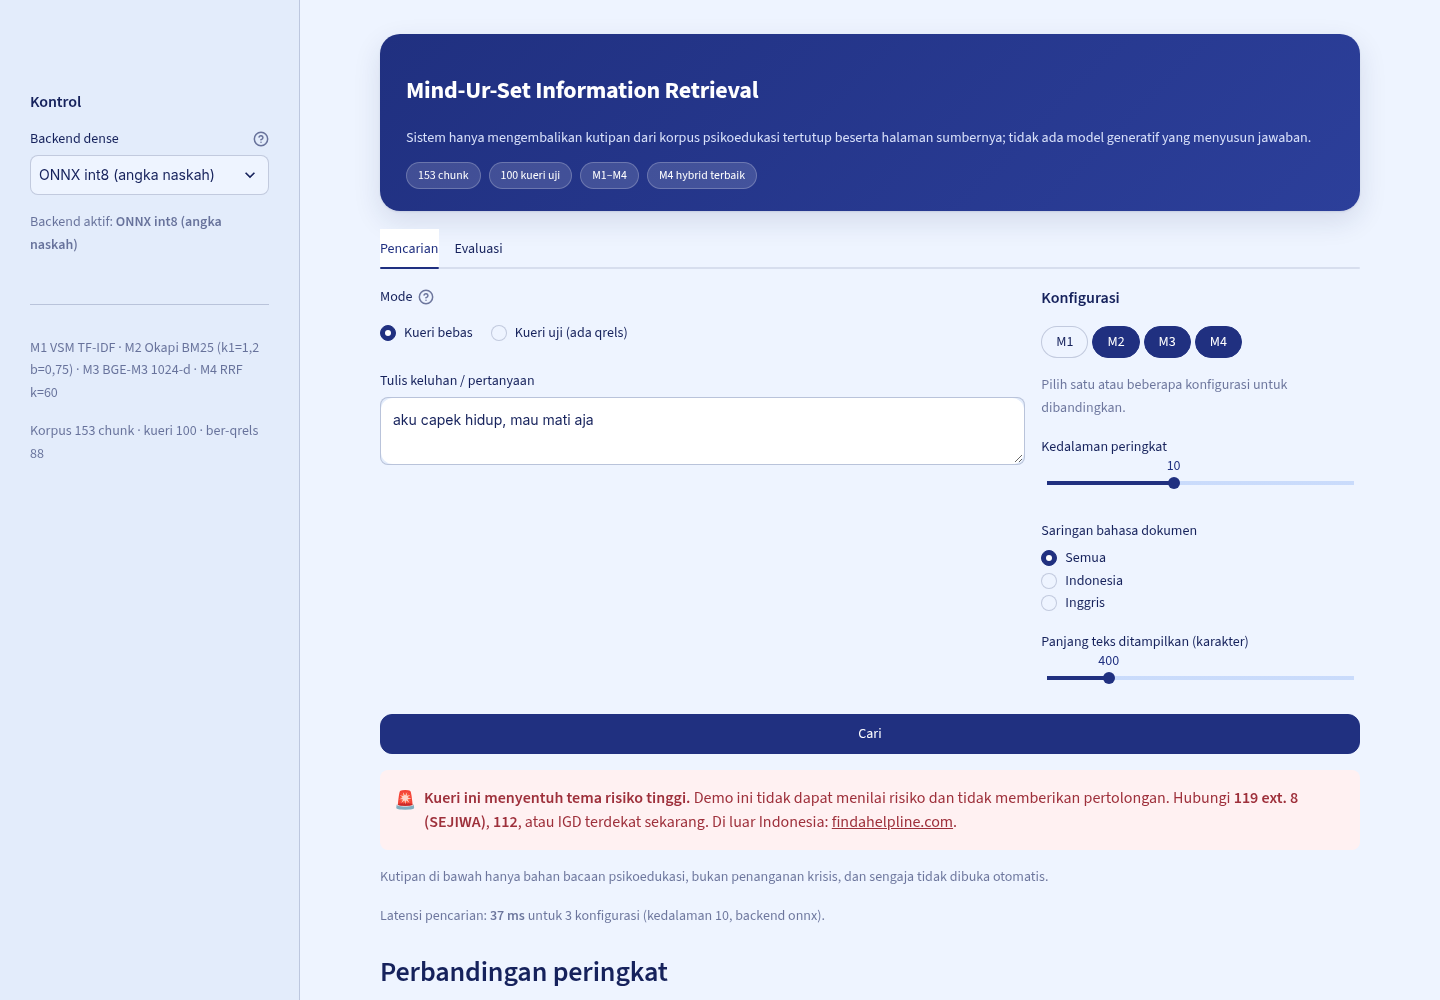
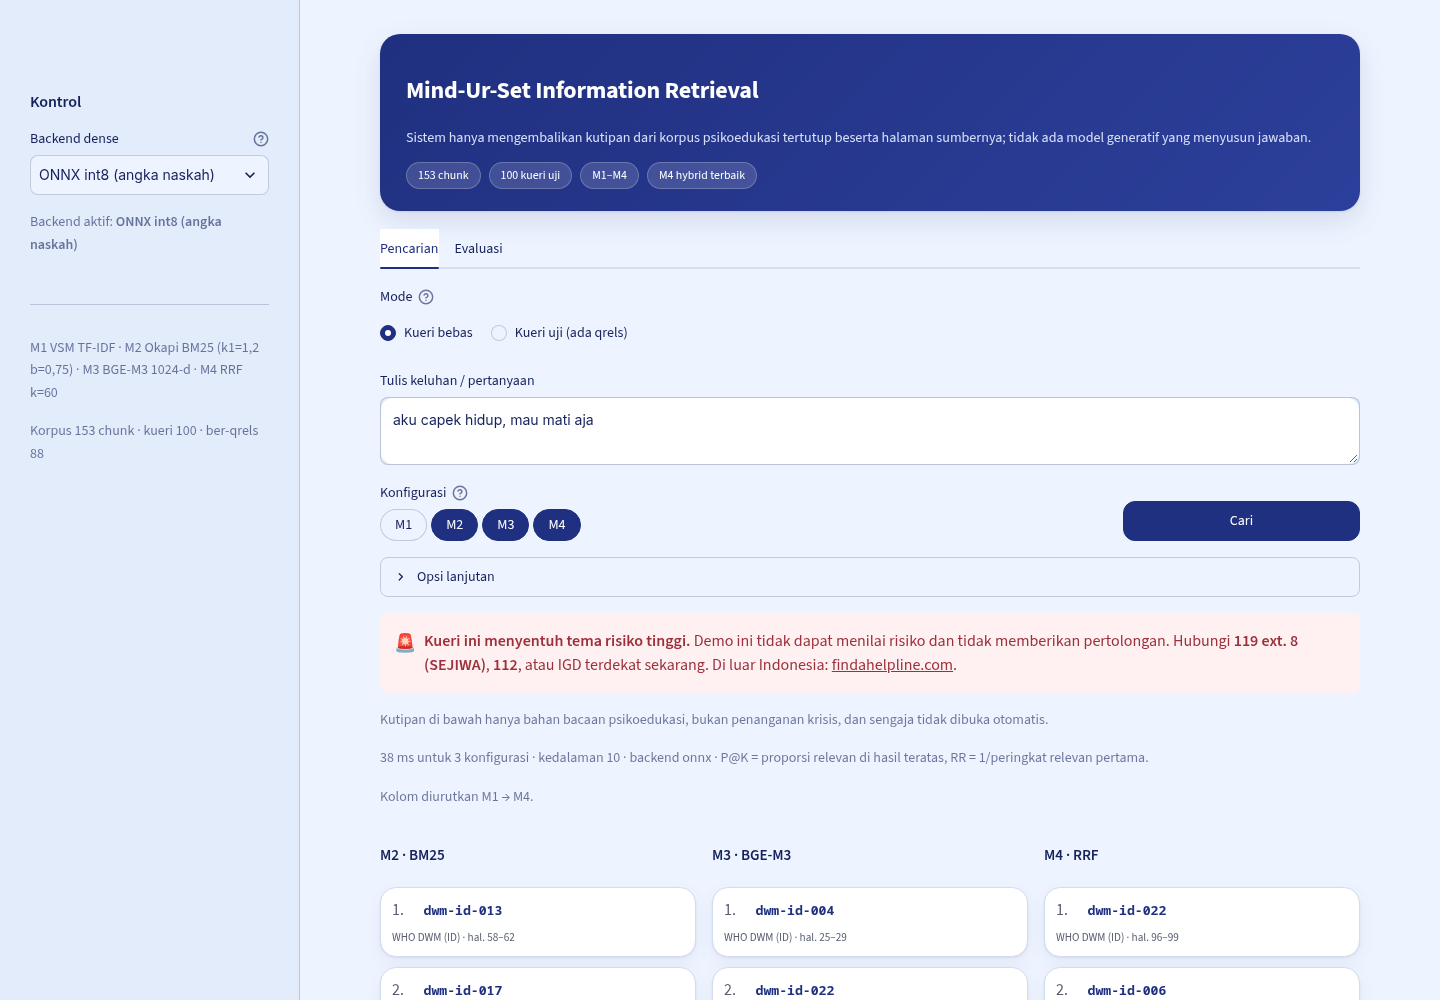
feat: compact search form and put results side by side

diff --git a/app.py b/app.py
@@ -29,6 +29,7 @@ ROOT = pathlib.Path(__file__).resolve().parent
 DATA = ROOT / "data"
 EMB = DATA / "embedding" / "emb_chunk_cls.npy"
 PAPER = {"M1": 0.390, "M2": 0.397, "M3": 0.420, "M4": 0.500}
+RINGKAS = {"M1": "VSM", "M2": "BM25", "M3": "BGE-M3", "M4": "RRF"}
 MAKS_KARAKTER = 500
 
 NAMA_SUMBER = {
@@ -249,47 +250,49 @@ with tab_cari:
     fungsi = pencari(backend)
     tersedia_nama = list(fungsi)
 
-    kol_kiri, kol_kanan = st.columns([2, 1])
-    with kol_kiri:
-        mode = st.radio(
-            "Mode",
-            ["Kueri bebas", "Kueri uji (ada qrels)"],
-            horizontal=True,
-            help="Kueri uji punya kunci relevansi, jadi ketepatan bisa dihitung.",
+    mode = st.radio(
+        "Mode",
+        ["Kueri bebas", "Kueri uji (ada qrels)"],
+        horizontal=True,
+        help="Kueri uji punya kunci relevansi, jadi ketepatan bisa dihitung.",
+    )
+    if mode == "Kueri bebas":
+        teks_kueri = st.text_area(
+            "Tulis keluhan / pertanyaan",
+            value="saya tidak bisa tidur, pikiran saya terus berputar",
+            height=80,
+            max_chars=MAKS_KARAKTER,
         )
-        if mode == "Kueri bebas":
-            teks_kueri = st.text_area(
-                "Tulis keluhan / pertanyaan",
-                value="saya tidak bisa tidur, pikiran saya terus berputar",
-                height=90,
-                max_chars=MAKS_KARAKTER,
-            )
-            qid = None
-        else:
-            opsi = {f"{q['qid']} · {q['teks'][:60]}…": q for q in KUERI if q["qid"] in QRELS}
-            pilih = st.selectbox("Pilih kueri uji", list(opsi))
-            q = opsi[pilih]
-            teks_kueri, qid = q["teks"], q["qid"]
-            st.info(f"**{qid}** ({q['bahasa']}) — {len(QRELS[qid])} chunk relevan · “{teks_kueri}”")
-    with kol_kanan:
+        qid = None
+    else:
+        opsi = {f"{q['qid']} · {q['teks'][:60]}…": q for q in KUERI if q["qid"] in QRELS}
+        pilih = st.selectbox("Pilih kueri uji", list(opsi))
+        q = opsi[pilih]
+        teks_kueri, qid = q["teks"], q["qid"]
+        st.caption(f"{qid} ({q['bahasa']}) · {len(QRELS[qid])} chunk relevan menurut qrels")
+
+    baris = st.columns([3, 1], vertical_alignment="bottom")
+    with baris[0]:
         bawaan = [n for n in tersedia_nama if n.startswith(("M2", "M3", "M4"))] or tersedia_nama[:2]
-        st.markdown("**Konfigurasi**")
         pilih_kode = st.pills(
             "Konfigurasi",
             options=tersedia_nama,
             default=bawaan,
             selection_mode="multi",
             format_func=lambda n: n.split(" · ")[0],
-            label_visibility="collapsed",
-            help="M1 VSM TF-IDF · M2 BM25 · M3 BGE-M3 · M4 RRF",
+            help="Pilih satu atau beberapa konfigurasi untuk dibandingkan.",
         )
         metode_pilih = pilih_kode or []
-        st.caption("Pilih satu atau beberapa konfigurasi untuk dibandingkan.")
-        topk = st.slider("Kedalaman peringkat", 3, 20, 10)
-        bahasa = st.radio("Saringan bahasa dokumen", ["Semua", "Indonesia", "Inggris"])
-        tampil_teks = st.slider("Panjang teks ditampilkan (karakter)", 200, 1200, 400, step=100)
+    with baris[1]:
+        jalan = st.button("Cari", type="primary", width="stretch")
 
-    jalan = st.button("Cari", type="primary", width="stretch")
+    with st.expander("Opsi lanjutan", expanded=False):
+        kol_opsi = st.columns(3)
+        topk = kol_opsi[0].slider("Kedalaman peringkat", 3, 20, 10)
+        bahasa = kol_opsi[1].radio("Saringan bahasa dokumen", ["Semua", "Indonesia", "Inggris"])
+        tampil_teks = kol_opsi[2].slider(
+            "Panjang teks ditampilkan (karakter)", 200, 1200, 400, step=100
+        )
 
     if jalan:
         if not teks_kueri.strip():
@@ -332,63 +335,66 @@ with tab_cari:
             kartu_bantuan()
 
         if simpan["qid"]:
-            st.subheader("Ringkasan ketepatan")
             kol = st.columns(len(hasil))
             for c, (nama, urut) in zip(kol, hasil.items()):
                 hit = len([d for d in urut if d in relevan])
                 k = len(urut) or 1
                 rr = next((1.0 / i for i, d in enumerate(urut, 1) if d in relevan), 0.0)
                 c.metric(nama.split(" · ")[0], f"P@{k} {hit / k:.2f}", f"RR {rr:.3f}")
-            st.caption(
-                "P@K = proporsi chunk relevan pada hasil teratas; RR = 1/peringkat relevan pertama. "
-                "K mengikuti jumlah hasil setelah saringan bahasa, bukan kedalaman yang diminta."
-            )
 
         st.caption(
-            f"Latensi pencarian: **{simpan['lama']:.0f} ms** untuk {len(hasil)} konfigurasi "
-            f"(kedalaman {simpan['topk']}, backend {backend or 'leksikal saja'})."
+            f"{simpan['lama']:.0f} ms untuk {len(hasil)} konfigurasi · kedalaman {simpan['topk']} · "
+            f"backend {backend or 'leksikal saja'} · P@K = proporsi relevan di hasil teratas, "
+            "RR = 1/peringkat relevan pertama."
         )
 
-        if len(hasil) > 1:
-            st.subheader("Perbandingan peringkat")
-            st.markdown(
-                tabel_perbandingan(hasil, relevan if simpan["qid"] else set(), simpan["topk"]),
-                unsafe_allow_html=True,
-            )
-            if simpan["qid"]:
-                st.caption("Sel berlatar hijau menandai chunk yang relevan menurut qrels final.")
-
-        for nama, urut in hasil.items():
-            st.subheader(nama)
-            if not urut:
-                ui_tema.kosong(
-                    "Tidak ada hasil",
-                    "Tidak ada kata kueri yang cocok pada konfigurasi ini. Coba konfigurasi lain "
-                    "atau longgarkan saringan bahasa.",
-                )
-                continue
-            kartu_html = []
-            for pos, doc_id in enumerate(urut, start=1):
-                d = KOR[doc_id]
-                teks = d["teks"]
-                sama, cakupan = tumpang_tindih(simpan["teks"], doc_id)
-                kartu_html.append(
-                    ui_tema.kartu(
-                        pos=pos,
-                        doc_id=doc_id,
-                        lokasi=lokasi(d),
-                        teks=teks[:tampil_teks] + ("…" if len(teks) > tampil_teks else ""),
-                        relevan=doc_id in relevan,
-                        catatan=[
-                            f"{d.get('token', '?')} token",
-                            f"kemiripan istilah {cakupan:.0%}",
-                            f"istilah sama: {', '.join(sama[:10]) if sama else '—'}",
-                            f"lisensi {d.get('lisensi', '?')}",
-                        ],
-                        buka=(pos <= 2 and not simpan["risiko"]),
+        urut_konfig = {n: hasil[n] for n in sorted(hasil)}
+        if len(urut_konfig) > 1:
+            st.caption("Kolom diurutkan M1 → M4.")
+        kolom = st.columns(len(urut_konfig), gap="small")
+        for c, (nama, urut) in zip(kolom, urut_konfig.items()):
+            with c:
+                kode = nama.split(" · ")[0]
+                st.subheader(f"{kode} · {RINGKAS.get(kode, nama.split(' · ')[1])}")
+                if not urut:
+                    ui_tema.kosong(
+                        "Tidak ada hasil",
+                        "Tidak ada kata kueri yang cocok di konfigurasi ini.",
                     )
+                    continue
+                kartu_html = []
+                potong = min(tampil_teks, 320)
+                for pos, doc_id in enumerate(urut, start=1):
+                    d = KOR[doc_id]
+                    teks = d["teks"]
+                    sama, cakupan = tumpang_tindih(simpan["teks"], doc_id)
+                    kartu_html.append(
+                        ui_tema.kartu(
+                            pos=pos,
+                            doc_id=doc_id,
+                            lokasi=lokasi(d),
+                            teks=teks[:potong] + ("…" if len(teks) > potong else ""),
+                            relevan=doc_id in relevan,
+                            catatan=[
+                                f"{d.get('token', '?')} token",
+                                f"kemiripan {cakupan:.0%}",
+                                f"istilah: {', '.join(sama[:8]) if sama else '—'}",
+                                f"{d.get('lisensi', '?')}",
+                            ],
+                            buka=(pos <= 2 and not simpan["risiko"]),
+                            ringkas=True,
+                        )
+                    )
+                st.markdown("".join(kartu_html), unsafe_allow_html=True)
+
+        if len(hasil) > 1:
+            with st.expander("Perbandingan peringkat (tabel)"):
+                st.markdown(
+                    tabel_perbandingan(hasil, relevan if simpan["qid"] else set(), simpan["topk"]),
+                    unsafe_allow_html=True,
                 )
-            st.markdown("".join(kartu_html), unsafe_allow_html=True)
+                if simpan["qid"]:
+                    st.caption("Sel berlatar hijau menandai chunk relevan menurut qrels final.")
     else:
         ui_tema.kosong(
             "Belum ada hasil",

diff --git a/ui_tema.py b/ui_tema.py
@@ -113,8 +113,24 @@ button[data-variant="pills"] {{ padding: 4px 14px !important; }}
 .stTabs [data-baseweb="tab"] {{ border-radius: 10px 10px 0 0; }}
 .stTabs [aria-selected="true"] {{ background: #fff; }}
 h3 {{ font-size: 1.02rem; color: {INK}; margin-top: 1.1rem; }}
+[data-testid="stColumn"] h3 {{ font-size: .95rem; line-height: 1.25; min-height: 2.5em;
+    margin-top: .6rem; margin-bottom: .4rem; }}
 [data-testid="stMetricValue"] {{ font-size: 1.25rem; color: {NAVY}; }}
 [data-testid="stMetricDelta"] {{ font-size: .75rem; }}
+.kartu.ringkas summary {{ padding: 9px 11px; gap: 6px; }}
+.kartu.ringkas .id {{ font-size: .82rem; }}
+.kartu.ringkas .lokasi {{ display: block; width: 100%; font-size: .7rem; }}
+.kartu.ringkas .badan {{ padding: 0 11px 10px; }}
+.kartu.ringkas .badan p {{ font-size: .82rem; line-height: 1.5; }}
+.kartu.ringkas .meta {{ font-size: .7rem; }}
+@media (max-width: 640px) {{
+    .block-container {{ padding-top: .5rem; }}
+    .hero {{ padding: 16px 18px; border-radius: 16px; }}
+    .hero h1 {{ font-size: 1.12rem; }}
+    .hero p {{ font-size: .78rem; }}
+    .hero .deret span {{ font-size: .68rem; padding: 2px 8px; }}
+    [data-testid="stColumn"] h3 {{ min-height: 0; }}
+}}
 .kosong {{
     background: #fff; border: 1px dashed {OUTLINE}; border-radius: 16px;
     padding: 22px 24px; color: {MUTED}; font-size: .88rem;
@@ -152,10 +168,14 @@ def kartu(
     relevan: bool,
     catatan: list[str] | None = None,
     buka: bool = False,
+    ringkas: bool = False,
 ) -> str:
     """Satu kartu hasil. Memakai <details> agar bisa dibuka tanpa st.expander."""
-    tanda = '<span class="tanda">✓ relevan</span>' if relevan else ""
+    tanda = ('<span class="tanda">✓</span>' if ringkas else '<span class="tanda">✓ relevan</span>') \
+        if relevan else ""
     kelas = "kartu relevan" if relevan else "kartu"
+    if ringkas:
+        kelas += " ringkas"
     meta = " · ".join(html.escape(c) for c in (catatan or []))
     return (
         f'<details class="{kelas}"{" open" if buka else ""}>'

diff --git a/README.md b/README.md
@@ -48,7 +48,9 @@ pip install -r requirements-torch.txt
 | Bagian | Keterangan |
 |---|---|
 | Hero dan tema | Warna dan tipografi memakai token aplikasi Mind-Ur-Set (`Color.kt`): navy #203080, kanvas #EEF4FF, tinta #16225C |
-| Kartu hasil | Satu kartu per *chunk*, dapat dibuka; *chunk* relevan bergaris dan berlatar hijau |
+| Kartu hasil | Satu kartu per *chunk* per konfigurasi, tersusun berdampingan (M1 → M4); *chunk* relevan bergaris dan berlatar hijau |
+| Opsi lanjutan | Kedalaman, saringan bahasa, dan panjang teks disembunyikan dalam *expander* agar hasil muncul lebih cepat |
+| Tabel perbandingan | Dilipat di bawah hasil, berisi peringkat M1–M4 berdampingan |
 | Kartu keselamatan | Muncul hanya untuk kueri berfrasa risiko, dengan rujukan 119 ext. 8 (SEJIWA), 112, IGD, dan findahelpline.com |
 | Mode kueri bebas | Tulis keluhan apa pun, lihat peringkat *chunk* |
 | Mode kueri uji | Pilih dari 88 kueri uji yang punya kunci relevansi |
